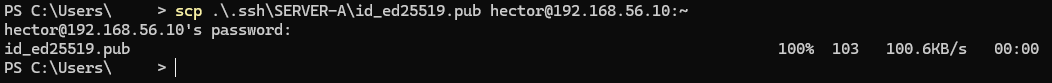
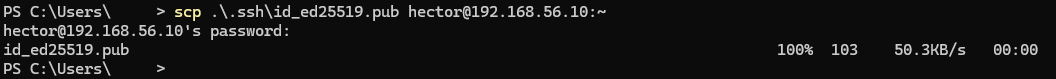
pr0203

diff --git a/ut02/pr0203/pr0203.md b/ut02/pr0203/pr0203.md
@@ -123,36 +123,60 @@ ssh: connect to host 10.30.0.20 port 22: Connection timed out
 Como igual que en **SERVER-B**, son buenas noticias y ya tenemos toda la red configurada.
 
 ## 🔑 Creación y configuración de claves **SSH**
-Ahora crearemos las claves **SSH** para conectarnos sin la contraseña. Lo haremos conectados por **SSH** desde la terminal anfitriona a **SERVER-A** y lo configuraremos todo desde ahí.
+Ahora crearemos las claves **SSH** para conectarnos sin la contraseña. Lo haremos conectados por **SSH** desde la terminal anfitriona a **SERVER-A, B y C** y lo configuraremos todo desde ahí.
 
-Creamos la clave desde nuestra máquina anfitriona con `ssh-keygen`, en mi caso, he puesto la clave en otro directorio para que no se sobreescribiese con la clave de la máquina **ASO Server**.
+Creamos la clave desde nuestra máquina anfitriona con `ssh-keygen`.
 
 ![Crear clave SSH](Imagenes/CrearClave.png)
 
 Ahora, usamos `scp` y copiamos la clave que acabamos de generar de ésta manera:
 ```
-scp .\.ssh\SERVER-A\id_ed25519.pub hector@192.168.56.10:~
+scp .\.ssh\id_ed25519.pub hector@192.168.56.10:~
 ```
 ![Copiar Clave a SERVER-A](Imagenes/CopiarClaveA.png)
 
 Nos conectamos por **SSH** a **SERVER-A** y movemos la clave pública que acabamos de pasar hacia el directorio `.ssh/authorized_keys`.
 
-![Pasar clave de SERVER-A](Imagenes/PasarClave.png)
+![Pasar clave a SERVER-A](Imagenes/PasarClave.png)
 
-Para comprobarlo, salimos y volvemos a entrar, y no nos pedirá la contraseña.
+Para comprobarlo, salimos y volvemos a entrar por **SSH**, y no nos pedirá la contraseña.
 
+![Conectarse sin la contraseña a SERVER-A](Imagenes/ConectarNoContraA.png)
 
+Podemos ver que todo ha ido bien.
 
+Ahora dentro de **SERVER-A**, generamos otra clave pero pondremos ésta vez `ssh-keygen -b 1024`. Y luego lo comprobamos con `ls`.
 
+![Crear clave en SERVER-A](Imagenes/CrearClaveA.png)
 
+Genera dos claves al igual que en la anfitriona, una pública y la otra privada. La diferencia entre las dos, es que la pública tiene la extensión **.pub**.
 
+Ahora copiamos la clave que hemos generado hacia **SERVER-B** y **SERVER-C**, igual que en los pasos anteriores.
 
+```
+scp .\.ssh\id_ed25519.pub sysadmin@10.20.0.20:~ (SERVER-B)
+scp .\.ssh\id_ed25519.pub sysadmin@10.30.0.20:~ (SERVER-C)
+```
 
+![Pasar clave de A a B y C](Imagenes/PasarClaveA.png)
 
+Ahora entramos a **SERVER-B** desde **SERVER-A** y pasamos la clave a **authorized_keys**, igual que antes también.
 
+![Pasar clave de A a B](Imagenes/PasarClaveB.png)
 
+Salimos y volvemos a entrar por **SSH** y veremos que no nos pedirá la contraseña igual que cuando hicimos desde la anfitriona a SERVER-A.
 
+![Conectarse sin la contraseña desde A a B](Imagenes/ConectarNoContraB.png)
 
+Al igual que antes, si no pide la contraseña, es que lo hemos hecho bien.
+
+Ahora entramos en **SERVER-C** y repetimos los mismos pasos.
+
+![Pasar clave de A a C](Imagenes/PasarClaveC.png)
+
+Salimos y volvemos a entrar por **SSH** y veremos que tampoco pide la contraseña.
+
+![Conectarse sin la contraseña desde A a C](Imagenes)
 
 ---
 ### [⬅ Volver a UT02](../index.md)
